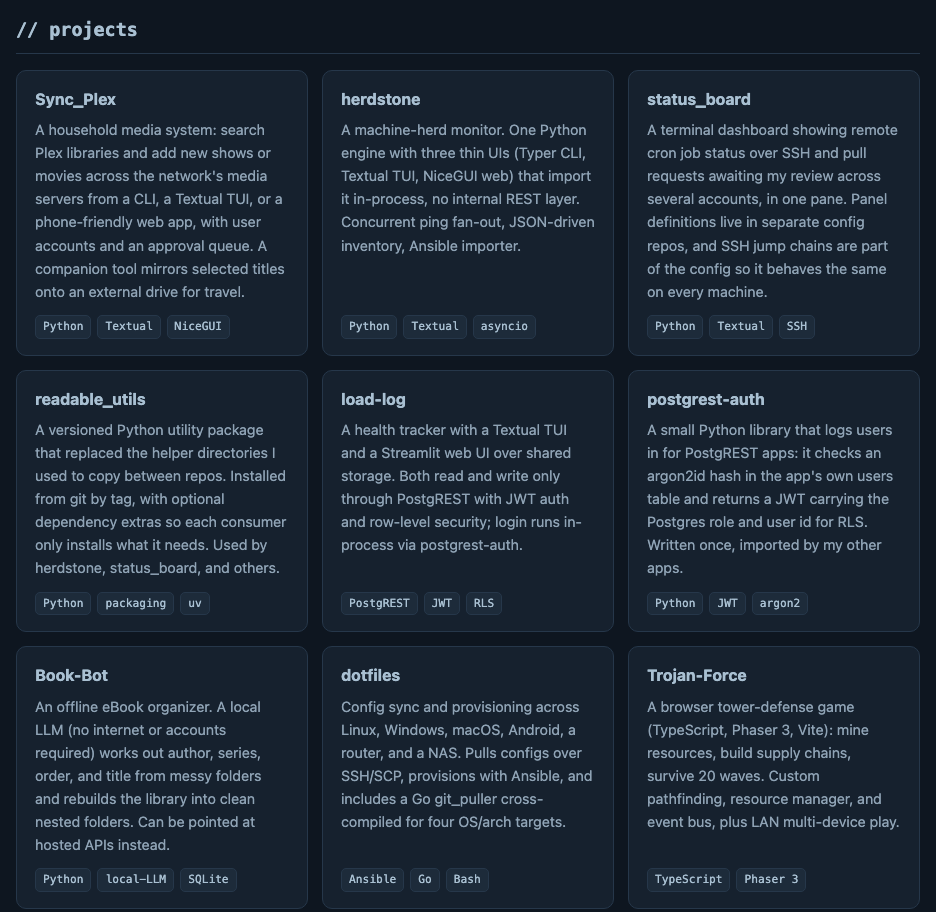
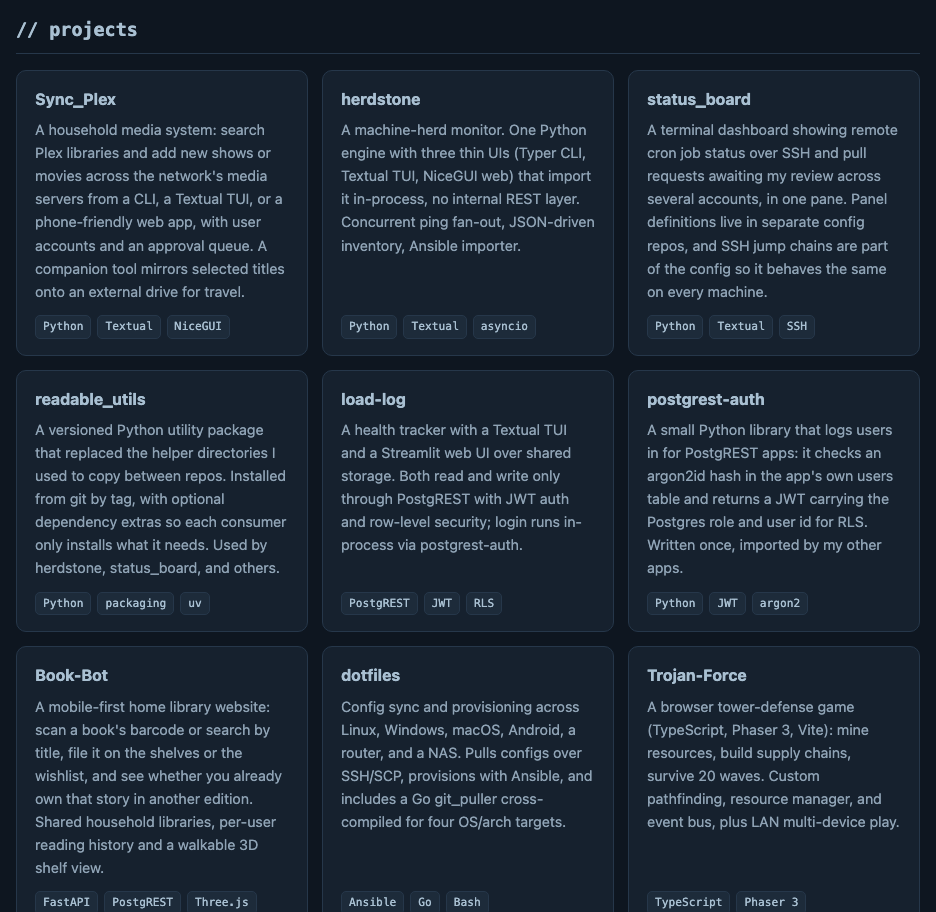
the book-bot card describes the library website it is now, alembic is gone from the skills, and the project cards screenshot is retaken

Changed region(s): [[0.031, 0.7675, 0.3098, 1.0], [0.6816, 0.9518, 0.8675, 1.0], [0.3408, 0.9518, 0.5267, 1.0]]

diff --git a/frontend_react/src/data.ts b/frontend_react/src/data.ts
@@ -65,8 +65,8 @@ export const PROJECTS: Project[] = [
     name: "Book-Bot",
     url: "https://github.com/ReadableCode/Book-Bot",
     blurb:
-      "An offline eBook organizer. A local LLM (no internet or accounts required) works out author, series, order, and title from messy folders and rebuilds the library into clean nested folders. Can be pointed at hosted APIs instead.",
-    tags: ["Python", "local-LLM", "SQLite"],
+      "A mobile-first home library website: scan a book's barcode or search by title, file it on the shelves or the wishlist, and see whether you already own that story in another edition. Shared household libraries, per-user reading history and a walkable 3D shelf view.",
+    tags: ["FastAPI", "PostgREST", "Three.js"],
   },
   {
     id: "dotfiles",
@@ -115,7 +115,7 @@ export const SKILLS: [string, string][] = [
   ["Web / API", "FastAPI, React 19 + Vite, nginx, Streamlit, NiceGUI, Phaser 3"],
   ["TUI / CLI", "Textual, Typer, Rich, custom terminal apps"],
   ["Data", "pandas, DuckDB, warehouse connectors (Snowflake/Databricks/Looker), OCR/PDF"],
-  ["Databases / storage", "PostgreSQL + PostgREST, Alembic + RLS, SQLite, MinIO/S3, Vault"],
+  ["Databases / storage", "PostgreSQL + PostgREST, row-level security, SQLite, MinIO/S3, Vault"],
   ["Auth / security", "Authelia SSO, JWT (HS256), bcrypt/argon2, Postgres Row-Level Security"],
   [
     "Infra / DevOps",

diff --git a/backend/src/main.py b/backend/src/main.py
@@ -99,11 +99,12 @@ PROJECTS = [
         "name": "Book-Bot",
         "url": "https://github.com/ReadableCode/Book-Bot",
         "blurb": (
-            "An offline eBook organizer. A local LLM (no internet or accounts required) "
-            "works out author, series, order, and title from messy folders and rebuilds "
-            "the library into clean nested folders. Can be pointed at hosted APIs instead."
+            "A mobile-first home library website: scan a book's barcode or search by "
+            "title, file it on the shelves or the wishlist, and see whether you already "
+            "own that story in another edition. Shared household libraries, per-user "
+            "reading history and a walkable 3D shelf view."
         ),
-        "tags": ["Python", "local-LLM", "SQLite"],
+        "tags": ["FastAPI", "PostgREST", "Three.js"],
     },
     {
         "id": "dotfiles",

diff --git a/README.md b/README.md
@@ -64,7 +64,7 @@ Screenshots come from each project's own repo, taken against demo data.
   <tr>
     <td valign="top">
       <a href="https://github.com/ReadableCode/Book-Bot"><b>Book-Bot</b></a><br>
-      Offline eBook organizer: a local LLM sorts messy folders into a clean library.<br><br>
+      Home library website: scan a barcode to see whether you already own that book in any edition.<br><br>
       <img src="docs/screenshots/projects/book_bot.png" alt="Book-Bot shelves view">
     </td>
     <td valign="top">
